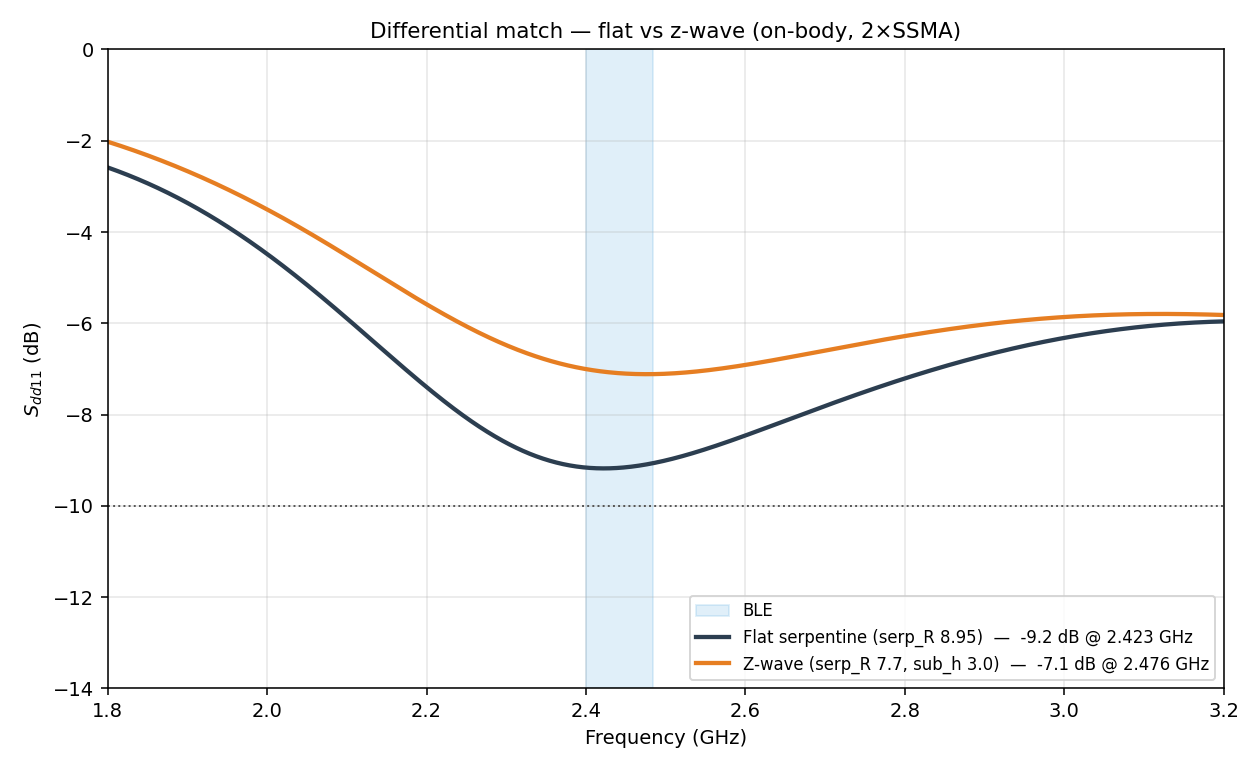
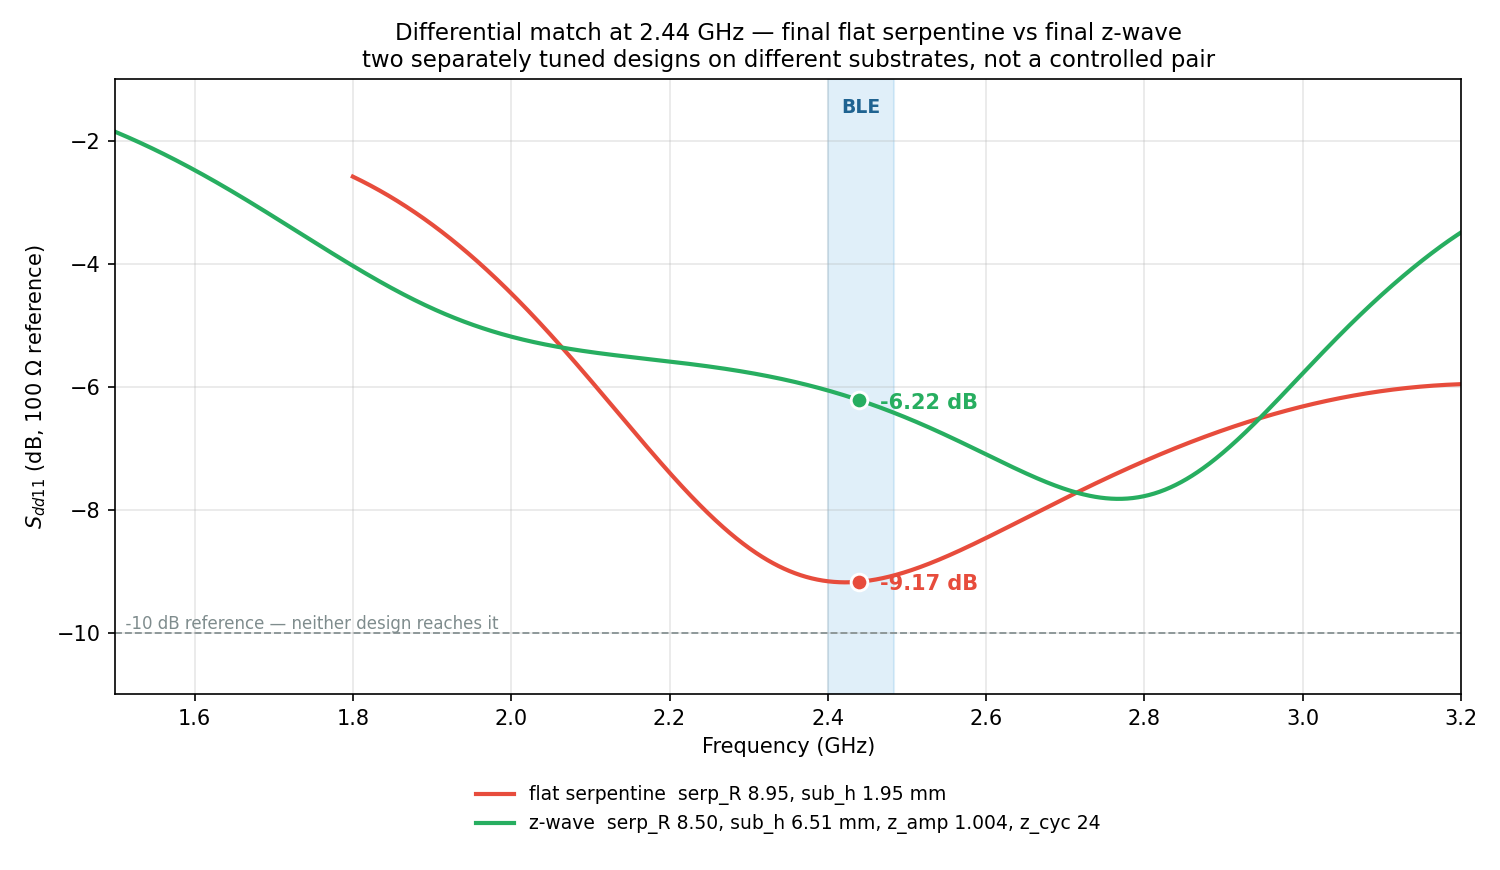
Fix the z-wave comparison plot and trace every figure to its geometry
sdd11-flat-vs-zwave.png was plotting zwave-feed2, which has the same parameter
values as the built design but an older model history: 0.66 mm wells and stubs
that do not lie in the land plane, i.e. the two things fixed afterwards. The
z-wave curve now comes from zwave-feed3 run 10 (serp_R 8.5, sub_h 6.508), whose
history is byte-identical to zwfinal-fab.cst -- the project the STEP and mould
plates were exported from.

Sdd11 at 2.44 GHz: flat -9.17 dB, z-wave -6.22 dB (worst in BLE -6.06 dB).

The previous README called feed2 "MATCHED" and feed3 "MIS-TUNED" on the grounds
that feed3's |Sdd11| minimum sits at 2.843 GHz. That is the wrong criterion --
a differentially fed loop has no dip between series and anti-resonance, so the
design is judged on its value across BLE, not on dip location. Corrected, with
the reasoning recorded.

Adds a provenance table: every figure -> project, run ID, serp_R, sub_h, z_amp,
and whether the SSMA feed is modelled. It separates the one controlled
comparison (strain: identical geometry, z_amp 1.004 vs 0) from the one that is
not (match: two designs on different substrates), and footnotes that the flat
design's -8.8 % strain figure came from an earlier model (serp_R 9.05,
eps_r 2.68) so it must not share an axis with the z-wave's -7.82 %.

scripts/plot_sdd11_compare.py selects runs by matching parameters, never by
max(run_id), and needs no CST licence.

diff --git a/scripts/plot_sdd11_compare.py b/scripts/plot_sdd11_compare.py
@@ -1,0 +1,135 @@
+#!/usr/bin/env python3
+"""Differential match, final flat serpentine vs final z-wave, on one axis.
+
+WHICH RUNS, AND WHY IT MATTERS
+Both sides are selected by MATCHING PARAMETERS, never by max(run_id): CST puts
+the current parameter set in run_id 0 and pushes stored combinations to higher
+ids, so "newest id" can be an older solve (see ZWAVE-FEED-FINDINGS.md).
+
+  flat   work/param-sim.cst     serp_R 8.95, sub_h 1.948   (its own tuned design)
+  z-wave work/zwave-feed3.cst   serp_R 8.50, sub_h 6.508   (run 10)
+
+The z-wave side MUST come from zwave-feed3: its model history is byte-identical
+to work/zwfinal-fab.cst, the project the STEP and the mould plates were exported
+from. zwave-feed2 has the same parameter names and values but an OLDER geometry
+-- shallow 0.66 mm wells and stubs that do not lie in the land plane -- so its
+numbers describe an antenna that is not the one being built.
+
+NOT A CONTROLLED COMPARISON. These are two separately tuned designs on different
+substrates (1.95 mm vs 6.51 mm), so the difference mixes the z-wave's cost with
+the thicker slab's. The controlled experiment is the strain figure, where the
+flat control sits at the z-wave's own serp_R and sub_h with z_amp = 0.
+"""
+
+from __future__ import annotations
+
+import math
+import os
+import sys
+
+sys.path.append(r"C:\Program Files (x86)\CST Studio Suite 2024\AMD64\python_cst_libraries")
+import cst.results as cr  # noqa: E402
+
+ROOT = os.path.dirname(os.path.dirname(os.path.abspath(__file__)))
+BASE = "1D Results\\S-Parameters\\"
+BLE_LO, BLE_HI = 2.400, 2.4835
+F0 = 2.44
+
+OUT = sys.argv[1] if len(sys.argv) > 1 else os.path.join(
+    ROOT, "deliverables", "cst", "sdd11-flat-vs-zwave.png")
+
+
+def db(z):
+    m = abs(z)
+    return 20 * math.log10(m) if m > 0 else -120.0
+
+
+def sdd11(projname, **want):
+    """Sdd11 vs frequency for the run whose parameters match `want`."""
+    pf = cr.ProjectFile(os.path.join(ROOT, "work", projname),
+                        allow_interactive=True)
+    mod = pf.get_3d()
+    for rid in sorted(mod.get_all_run_ids()):
+        try:
+            pc = mod.get_parameter_combination(rid)
+        except Exception:
+            continue
+        if any(pc.get(k) is None or abs(float(pc[k]) - v) > 1e-3
+               for k, v in want.items()):
+            continue
+        S = {}
+        try:
+            for nm in ("S1,1", "S1,2", "S2,1", "S2,2"):
+                it = mod.get_result_item(BASE + nm, rid)
+                xs = [float(x) for x in it.get_xdata()]
+                ys = [complex(y) for y in it.get_ydata()]
+                if not xs:
+                    raise RuntimeError("empty")
+                S[nm] = (xs, ys)
+        except Exception:
+            continue
+        f = S["S1,1"][0]
+        sdd = [(a - b - c + d) / 2 for a, b, c, d in
+               zip(S["S1,1"][1], S["S1,2"][1], S["S2,1"][1], S["S2,2"][1])]
+        return rid, f, [db(z) for z in sdd]
+    raise SystemExit(f"no run in {projname} matching {want}")
+
+
+def at(f, y, target):
+    return y[min(range(len(f)), key=lambda i: abs(f[i] - target))]
+
+
+def worst_in_band(f, y):
+    ks = [i for i in range(len(f)) if BLE_LO <= f[i] <= BLE_HI]
+    return max(y[i] for i in ks) if ks else float("nan")
+
+
+rid_f, ff, yf = sdd11("param-sim.cst", serp_R=8.95)
+rid_z, fz, yz = sdd11("zwave-feed3.cst", serp_R=8.5, sub_h=6.508)
+
+for nm, rid, f, y in (("flat  ", rid_f, ff, yf), ("z-wave", rid_z, fz, yz)):
+    print(f"{nm} run {rid:>2}: Sdd11@2.44 = {at(f, y, F0):+6.2f} dB, "
+          f"worst in BLE = {worst_in_band(f, y):+6.2f} dB, "
+          f"min = {min(y):+6.2f} dB @ {f[y.index(min(y))]:.3f} GHz")
+
+import matplotlib  # noqa: E402
+matplotlib.use("Agg")
+import matplotlib.pyplot as plt  # noqa: E402
+
+fig, ax = plt.subplots(figsize=(10, 5.8))
+
+ax.set_xlim(min(ff[0], fz[0]), max(ff[-1], fz[-1]))
+ax.set_ylim(-11.0, -1.0)
+
+ax.axvspan(BLE_LO, BLE_HI, color="#3498db", alpha=0.15, zorder=0)
+ax.annotate("BLE", xy=((BLE_LO + BLE_HI) / 2, 0.97),
+            xycoords=("data", "axes fraction"), ha="center", va="top",
+            fontsize=9, color="#1f6391", weight="bold")
+ax.axhline(-10, color="#7f8c8d", lw=0.9, ls="--", zorder=1)
+ax.annotate("  -10 dB reference — neither design reaches it", xy=(0.0, -10),
+            xycoords=("axes fraction", "data"), va="bottom", ha="left",
+            fontsize=8, color="#7f8c8d")
+
+ax.plot(ff, yf, "-", color="#e74c3c", lw=2,
+        label="flat serpentine  serp_R 8.95, sub_h 1.95 mm")
+ax.plot(fz, yz, "-", color="#27ae60", lw=2,
+        label="z-wave  serp_R 8.50, sub_h 6.51 mm, z_amp 1.004, z_cyc 24")
+
+for f, y, c in ((ff, yf, "#e74c3c"), (fz, yz, "#27ae60")):
+    v = at(f, y, F0)
+    ax.plot([F0], [v], "o", color=c, ms=8, mec="white", mew=1.4, zorder=5)
+    ax.annotate(f"{v:.2f} dB", (F0, v), textcoords="offset points",
+                xytext=(10, -4), fontsize=10, color=c, weight="bold")
+
+ax.set_xlabel("Frequency (GHz)")
+ax.set_ylabel(r"$S_{dd11}$ (dB, 100 $\Omega$ reference)")
+ax.set_title("Differential match at 2.44 GHz — final flat serpentine vs final z-wave\n"
+             "two separately tuned designs on different substrates, not a controlled pair",
+             fontsize=11)
+ax.grid(True, alpha=0.3)
+ax.legend(loc="upper center", bbox_to_anchor=(0.5, -0.12), fontsize=9,
+          frameon=False, ncol=1)
+
+fig.tight_layout()
+fig.savefig(OUT, dpi=150)
+print(f"wrote {OUT}")

diff --git a/deliverables/cst/README.md b/deliverables/cst/README.md
@@ -1,87 +1,123 @@
 # Native CST result plots
 
-Exported directly from CST's own renderer (1600×1000), **not screen captures**.
-Regenerate with `scripts/export_cst_plots.py` — see the caveats at the bottom.
+Exported from CST's own renderer (1600×1000), **not screen captures**.
+Regenerate with `scripts/export_cst_plots.py` — caveats at the bottom.
 
-## Final flat serpentine — `work/param-sim.cst`
+> ## 🔴 Corrected 2026-07-29 — the previous version of this file had the two z-wave models backwards
+>
+> It labelled `zwave-feed2` as **"MATCHED ← use these"** and `zwave-feed3` as
+> **"MIS-TUNED"**. Both calls were wrong:
+>
+> 1. **`zwave-feed2` is the *pre-fix* geometry.** Its parameters are byte-identical
+>    to feed3's, but its model history is not: it has **0.66 mm wells** (`land_z -
+>    chan_r`) and **stubs that do not lie in the land plane** — the two things that
+>    were explicitly fixed afterwards. It is not the antenna being built.
+> 2. **`zwave-feed3` is not mis-tuned.** Its history is **byte-identical** to
+>    `work/zwfinal-fab.cst`, the project the STEP and mould plates came from. It was
+>    judged "mis-tuned" because its |S<sub>dd11</sub>| minimum sits at 2.843 GHz —
+>    but this antenna **has no in-band dip by construction** (see below), so dip
+>    location is the wrong criterion. Judged at 2.44 GHz, feed3 beats feed2.
+>
+> Only `sdd11-flat-vs-zwave.png` has been regenerated. The `zwave-matched-*` and
+> `zwave-final-*` PNGs are unchanged and are now labelled for what they actually
+> show.
 
-`serp_R = 8.95 mm`, Ecoflex, 2 × SSMA differential feed, on-body phantom.
+## Which antenna is in which figure
 
-| File | Shows |
-|---|---|
-| `flat-final-S11.png` | Raw 2-port S-parameters |
-| `flat-final-VSWR.png` | VSWR |
-| `flat-final-radiation-efficiency.png` | Radiation efficiency |
-| `flat-final-total-efficiency.png` | Total efficiency |
+Every figure, traced to its project, run ID and geometry. Runs are identified by
+**matching parameters**, never by `max(run_id)` — CST puts the current parameter
+set in run 0 and stored combinations at higher ids.
 
-Headline (differential, computed from the raw S-params): **S<sub>dd11</sub> 2.423 GHz, ≈ −9 dB,
-radiation efficiency ≈ 6 %**.
+| Figure | Project | run | `serp_R` | `sub_h` | `z_amp` | Feed modelled | Use? |
+|---|---|---|---|---|---|---|---|
+| `flat-final-*.png` | `param-sim.cst` | 0 | 8.95 | 1.948 | — flat | full 2×SSMA | ✅ the flat design |
+| `sdd11-flat-vs-zwave.png` | `param-sim` + `zwave-feed3` | 0 + 10 | 8.95 / **8.50** | 1.948 / **6.508** | — / **1.004** | full 2×SSMA | ✅ **regenerated** |
+| `zwave-final-*.png` | `zwave-feed3.cst` | 0 | **8.3** | **6.461** | 0.980 | full 2×SSMA | ⚠ right model, **wrong run** |
+| `zwave-matched-*.png` | `zwave-feed2.cst` | 0 | 7.7 | 3.0 | 0.910 | 2×SSMA, **pre-fix** | ❌ superseded geometry |
+| `zwave-S11-all-strains.png` | `zwstrain85.cst` | 0–5 | 8.5 | 6.508 | 1.004 | **delta-gap, no SSMA** | ✅ strain only |
+| `zwave-radiation-efficiency.png` | `zwstrain85.cst` | 0–5 | 8.5 | 6.508 | 1.004 | delta-gap | ✅ strain only |
+| `zwave-total-efficiency.png` | `zwstrain85.cst` | 0–5 | 8.5 | 6.508 | 1.004 | delta-gap | ✅ strain only |
+| `../strain-zwave-vs-flat.png` | `zwstrain85` + `zwflatB` | 1–5 | 8.5 / 8.5 | 6.508 / 6.508 | **1.004 / 0** | delta-gap | ✅ **the controlled pair** |
+| `../sdd11-final.png` | `param-sim.cst` | 0 | 8.95 | 1.948 | — flat | full 2×SSMA | ✅ the flat design |
+| `../strain-sweep.png` | `flex-strain.cst` | 1–5 | **9.05** | 1.948 | — flat | delta-gap | ⚠ see footnote |
 
-> ⚠ These are **single-ended** S-parameters. The antenna is balanced, so the meaningful quantity is
-> **S<sub>dd11</sub> = (S₁₁ − S₁₂ − S₂₁ + S₂₂)/2**, which is *not* any one curve on this plot. See
-> `../sdd11-final.png` for the differential result, and `docs/DESIGN-EVOLUTION.md` §4.
+Shared across every row: `serp_n` 12, `amp_ratio` 0.2, `serp_ratio` 0.05,
+`chan_r` 0.25 mm, `feed_gap` 1.0 mm, `body_gap` 1.0 mm, phantom `skin_t` 2 /
+`fat_t` 5 / `musc_t` 70 mm.
 
-## Z-wave, MATCHED — `work/zwave-feed2.cst`  ← use these
+> ⚠ **`../strain-sweep.png` footnote.** The flat design's −8.8 % strain result — the
+> number that triggered the whole z-wave revival — was measured on an **earlier flat
+> model**: `serp_R` 9.05 (not 8.95), `serp_A` 1.81, `eps_r` **2.68** (not 2.6),
+> `tand` **0.02** (not 0.03), no fillets. It is valid as *"the flat serpentine drifts
+> badly"*, but do **not** put its −8.8 % on the same axis as the z-wave's −7.82 %.
+> The correct flat baseline for that claim is **−10.38 %**, from `zwflatB` — same
+> `serp_R`, same `sub_h`, same materials, `z_amp = 0`.
 
-`serp_R = 7.7 mm`, `sub_h = 3.0 mm`. **S<sub>dd11</sub> = −7.1 dB @ 2.476 GHz** — within 1.5 % of
-2.44 and inside the BLE band.
+## The two comparisons, and which one is controlled
 
-| File | Shows |
-|---|---|
-| `zwave-matched-S11.png` | Raw 2-port S-parameters |
-| `zwave-matched-VSWR.png` | VSWR |
-| `zwave-matched-radiation-efficiency.png` | Radiation efficiency |
-| `zwave-matched-total-efficiency.png` | Total efficiency |
-| `sdd11-flat-vs-zwave.png` | **Differential S<sub>dd11</sub>, flat vs z-wave on one axis** |
+### 1. Strain — CONTROLLED ✅ `../strain-zwave-vs-flat.png`
 
-> ⚠ `sub_h = 3.0 mm` here, **not** the 6.508 mm of the design the mould plates were generated for.
-> This is a matched z-wave, but at a thinner substrate than the final geometry.
+| | z-wave (`zwstrain85`) | flat control (`zwflatB`) |
+|---|---|---|
+| `serp_R` | 8.5 mm | 8.5 mm |
+| `sub_h` | 6.508 mm | 6.508 mm |
+| `z_amp` / `z_cyc` | **1.004 mm** / 24 | **0** / 24 |
+| `serp_A` / `serp_n` | 1.7 / 12 | 1.7 / 12 |
+| `eps_r` / `tand` | 2.6 / 0.03 | 2.6 / 0.03 |
+| f₀ at 0 % strain | 2.174 GHz | 2.620 GHz |
+| f₀ at 20 % strain | 2.004 GHz | 2.348 GHz |
+| **Drift at 20 %** | **−7.82 %** | **−10.38 %** |
 
-## Z-wave, MIS-TUNED — `work/zwave-feed3.cst`
+**Every parameter is identical except `z_amp`.** That is what makes the 25 %
+reduction attributable to the z-wave and nothing else. Both sides are **bare-loop,
+delta-gap** models without the SSMA feed, and neither is tuned to 2.44 GHz — the
+*percentage* is the result, not the absolute frequency.
 
-Thicker substrate (`sub_h = 6.46`, closer to the mould) but **S<sub>dd11</sub> min sits at
-2.843 GHz and only −5.9 dB at 2.44** — poorly matched. Kept for comparison; do not present as the
-design's performance.
+### 2. Match — NOT controlled ⚠ `sdd11-flat-vs-zwave.png`
 
-| File | Shows |
-|---|---|
-| `zwave-final-S11.png` | Raw 2-port S-parameters |
-| `zwave-final-VSWR.png` | VSWR |
-| `zwave-final-radiation-efficiency.png` | Radiation efficiency |
-| `zwave-final-total-efficiency.png` | Total efficiency |
+| | flat (`param-sim`) | z-wave (`zwave-feed3` run 10) |
+|---|---|---|
+| `serp_R` | 8.95 mm | 8.50 mm |
+| `sub_h` | **1.948 mm** | **6.508 mm** |
+| `z_amp` / `z_cyc` | — (flat) | 1.004 mm / 24 |
+| `serp_A` | 1.79 | 1.70 |
+| `eps_r` / `tand` | 2.6 / 0.03 | 2.6 / 0.03 |
+| Feed | 2 × SSMA differential | 2 × SSMA differential |
+| S<sub>dd11</sub> @ 2.44 | **−9.17 dB** | **−6.22 dB** |
+| Worst across BLE | −9.07 dB | −6.06 dB |
+| Z<sub>diff</sub> @ 2.44 | 68 + 52j Ω | 283 + 46j Ω |
+| Mismatch loss | 0.56 dB | **1.19 dB** |
+| Radiation efficiency | ≈ 6 % | 5.22 % |
 
-> ⚠ **This is `serp_R = 8.3 mm`, `sub_h = 6.46 mm` — the closest *solved* iteration**, not the exact
-> final design point (`serp_R = 8.5`, `sub_h = 6.508`) quoted in `../README.md`. The exact final
-> geometry lives in `work/zwfinal-fab.cst`, which was built but never solved. Re-solve it and
-> re-export if you need the numbers to match the headline exactly.
+These are **two separately tuned designs on different substrates**, so the 3 dB gap
+mixes the z-wave's own cost with the cost of the 6.5 mm slab it needs. It is *not* a
+controlled experiment, and the figure says so on its face. Present it as
+*"each design at its own optimum"*, and quote the **mismatch loss** (0.56 → 1.19 dB,
+i.e. ~0.6 dB) rather than "−9 dB vs −6 dB", which sounds far worse than it is
+against ~31 dB of link margin.
 
-## Z-wave strain sweep — `work/zwstrain85.cst`
+## Why there is no dip at 2.44 GHz
 
-| File | Shows |
-|---|---|
-| `zwave-S11-all-strains.png` | **S₁₁ at 0 / 5 / 10 / 15 / 20 % strain, all five curves** |
-| `zwave-radiation-efficiency.png` | Radiation efficiency across the same runs |
-| `zwave-total-efficiency.png` | Total efficiency across the same runs |
+The z-wave's |S<sub>dd11</sub>| minimum sits at **2.767 GHz**, and that is expected.
+A differentially fed loop has a **series resonance** low and an **anti-resonance**
+high, with a broad monotonic response between them — there is no notch to land on
+2.44. What "tuned" means here is that the impedance is placed to give the best
+value *across BLE*: −6.22 dB at 2.44, never worse than −6.06 dB anywhere in band,
+a 0.16 dB variation. Flat, not resonant.
 
-> ⚠ This sweep sits at **~2.0–2.2 GHz, not 2.44** — it is the strain-study geometry (pre-feed),
-> where the *percentage* shift is the point, not the absolute frequency. Do not caption it as the
-> tuned design's performance.
-
-Result: resonance moves ≈ **−7.8 % at 20 % strain**, versus **−10.4 %** for a flat control — a ~25 %
-reduction. **Strain-tolerant, not strain-invariant.** The analytical kinematic model predicted
-~0.11 %, so full-wave is ~70× worse; the affine model badly overestimated the compensation.
-
-## Not included: farfield radiation patterns
-
-Farfield results **exist** in these projects (`Farfields\farfield (f=2.44) [1]` and `[2]`) but could
-not be exported programmatically — `Plot.ExportImageToFile` and `Plot.StoreImage` are not valid
-instructions in CST 2024, and `ExportImageToFile` is not callable bare.
-
-**Export them by hand** (~30 s each): open the project, select the farfield item in the tree,
-then **File → Export → Image**, or right-click the 3D view → *Export Image*. Save into this folder
-as `<design>-farfield-2p44.png`.
+Chasing the dip is the error that nearly made the first tuner scale `serp_R` the
+wrong way — see [`../../docs/ZWAVE-FEED-FINDINGS.md`](../../docs/ZWAVE-FEED-FINDINGS.md) §2.
 
 ## Regenerating
+
+```bash
+python scripts/plot_sdd11_compare.py
+```
+
+Reads results only — **no CST licence needed**, no VPN. Writes
+`deliverables/cst/sdd11-flat-vs-zwave.png` and prints both designs' numbers.
+
+The native CST renders need the GUI and a licence:
 
 ```bash
 python scripts/export_cst_plots.py work/param-sim.cst deliverables/cst
@@ -89,7 +125,35 @@ python scripts/export_cst_plots.py work/param-sim.cst deliverables/cst
 
 Two traps it handles, both of which cost time to find:
 
-1. **CST writes an uncompressed BMP even when the filename ends `.png`** (6.4 MB each). The script
-   converts to real PNG (~20 KB).
-2. **Quiet mode must be OFF.** With no visible plot window CST renders garbage — the first attempt
-   produced 16390×59395 nonsense. The project must be open and activated.
+1. **CST writes an uncompressed BMP even when the filename ends `.png`** (6.4 MB
+   each). The script converts to real PNG (~20 KB).
+2. **Quiet mode must be OFF.** With no visible plot window CST renders garbage —
+   the first attempt produced a 16390×59395 image. The project must be open and
+   activated.
+
+**Known gap:** `zwave-final-*.png` show feed3 **run 0** (`serp_R` 8.3, `sub_h`
+6.461), not the design point at run 10. Re-exporting them means opening
+`zwave-feed3.cst`, selecting run 10's parameter combination in the parametric
+result view, and re-running the export.
+
+## Not included: farfield radiation patterns
+
+Farfield results **exist** in these projects (`Farfields\farfield (f=2.44) [1]`
+and `[2]`) but could not be exported programmatically — `Plot.ExportImageToFile`
+and `Plot.StoreImage` are not valid instructions in CST 2024.
+
+**Export them by hand** (~30 s each): open the project, select the farfield item in
+the tree, then **File → Export → Image**, or right-click the 3D view → *Export
+Image*. Save here as `<design>-farfield-2p44.png`.
+
+## A note on the raw S-parameter plots
+
+`flat-final-S11.png`, `zwave-*-S11.png` and the VSWR plots are **single-ended**.
+The antenna is balanced, so the meaningful quantity is
+
+```
+Sdd11 = (S11 − S12 − S21 + S22) / 2
+```
+
+which is **not** any one curve on those plots. Use `sdd11-flat-vs-zwave.png` and
+`../sdd11-final.png` for the match, and see `docs/DESIGN-EVOLUTION.md` §4.

diff --git a/deliverables/README.md b/deliverables/README.md
@@ -7,6 +7,10 @@ The artifacts that matter, committed so everyone has them. See
 > **🔴 2026-07-27 — the design is now the Z-WAVE, not the flat serpentine.**
 > Files are grouped below by which design they belong to. The `serp-*` files are a
 > previous iteration; the `zwave-*` files are current.
+>
+> **Before putting any figure on a slide**, check it against the provenance table in
+> [`cst/README.md`](cst/README.md) — it lists every figure's project, run ID and
+> geometry, and flags the two that show superseded models.
 
 ## CURRENT — z-wave design
 
@@ -18,7 +22,7 @@ The artifacts that matter, committed so everyone has them. See
 | `zwave-gutter-plates.png` | The two plates, top views coloured by height + radial sections |
 | `zwave-gutter-section.png` | The concave ring cross-section, and why `z_cyc` must be 2 × `serp_n` |
 | `zwave-geometry-preview.png` | The antenna: top / side / end / feed detail |
-| `strain-zwave-vs-flat.png` | **The strain result** — z-wave vs a flat control at *matched* geometry |
+| `strain-zwave-vs-flat.png` | **The strain result** — z-wave vs a flat control at *matched* geometry (`serp_R` 8.5, `sub_h` 6.508, differing only in `z_amp`) |
 | `subh-cover-explained.png` | What `sub_h` and `cover` mean, and why cover is held fixed |
 
 ## The current design
